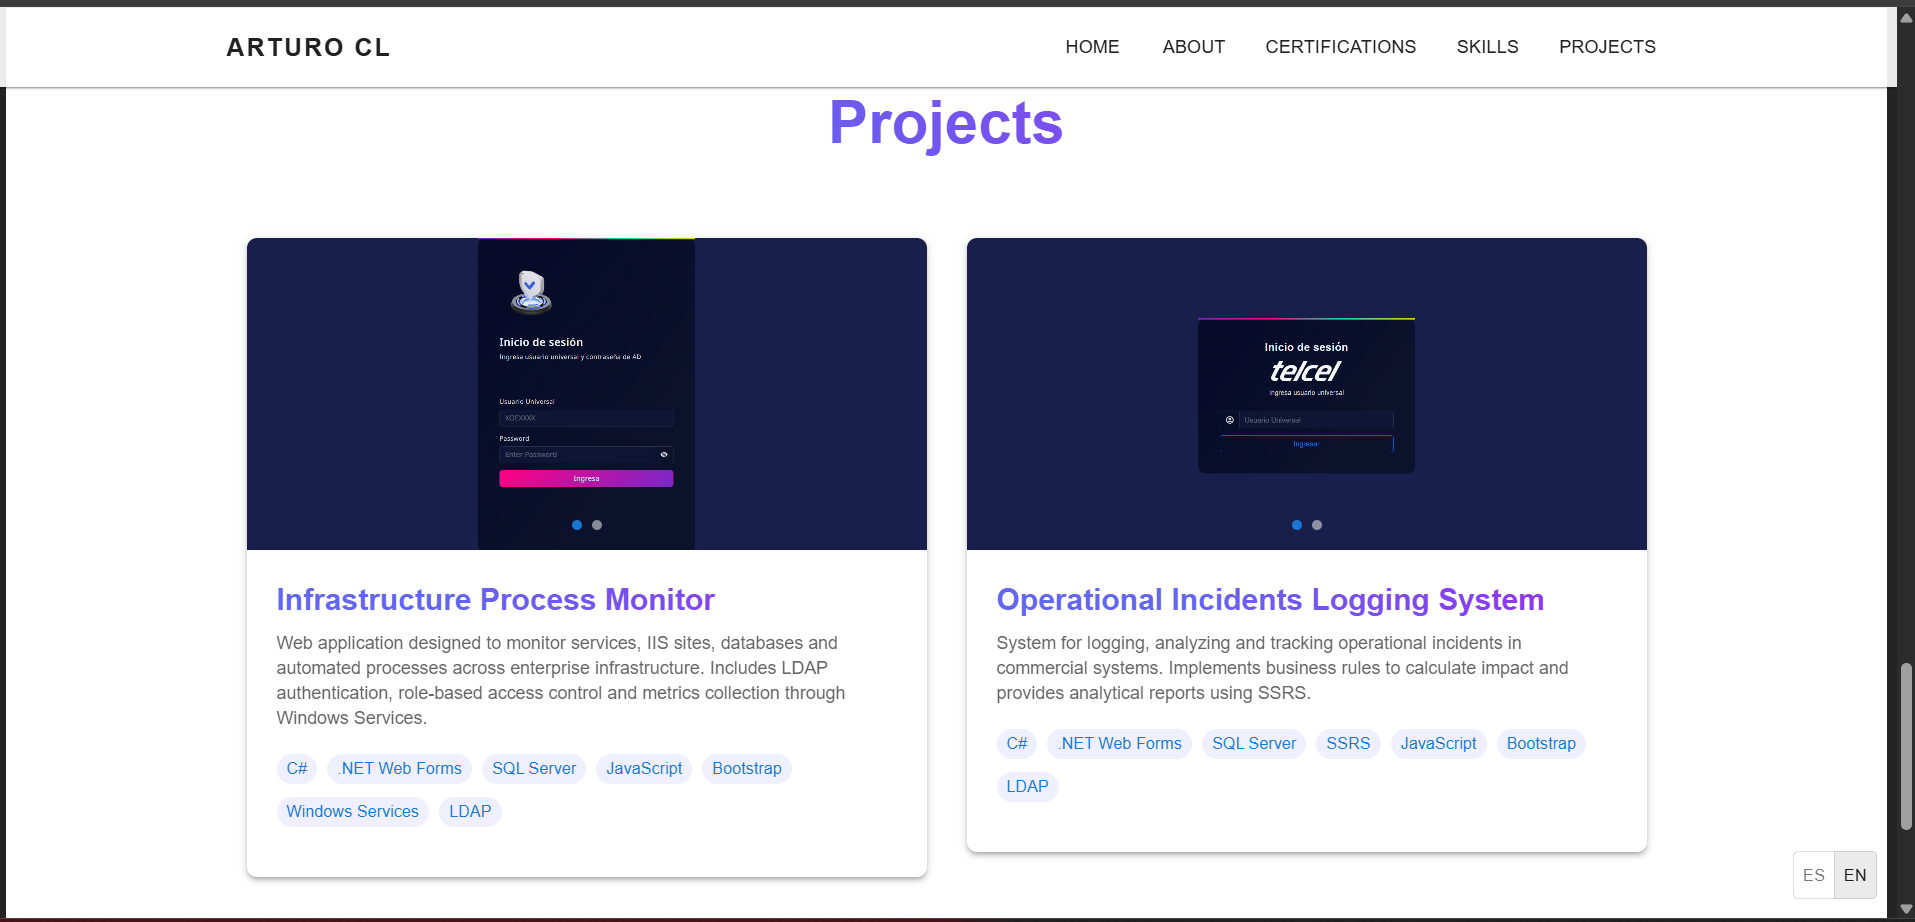
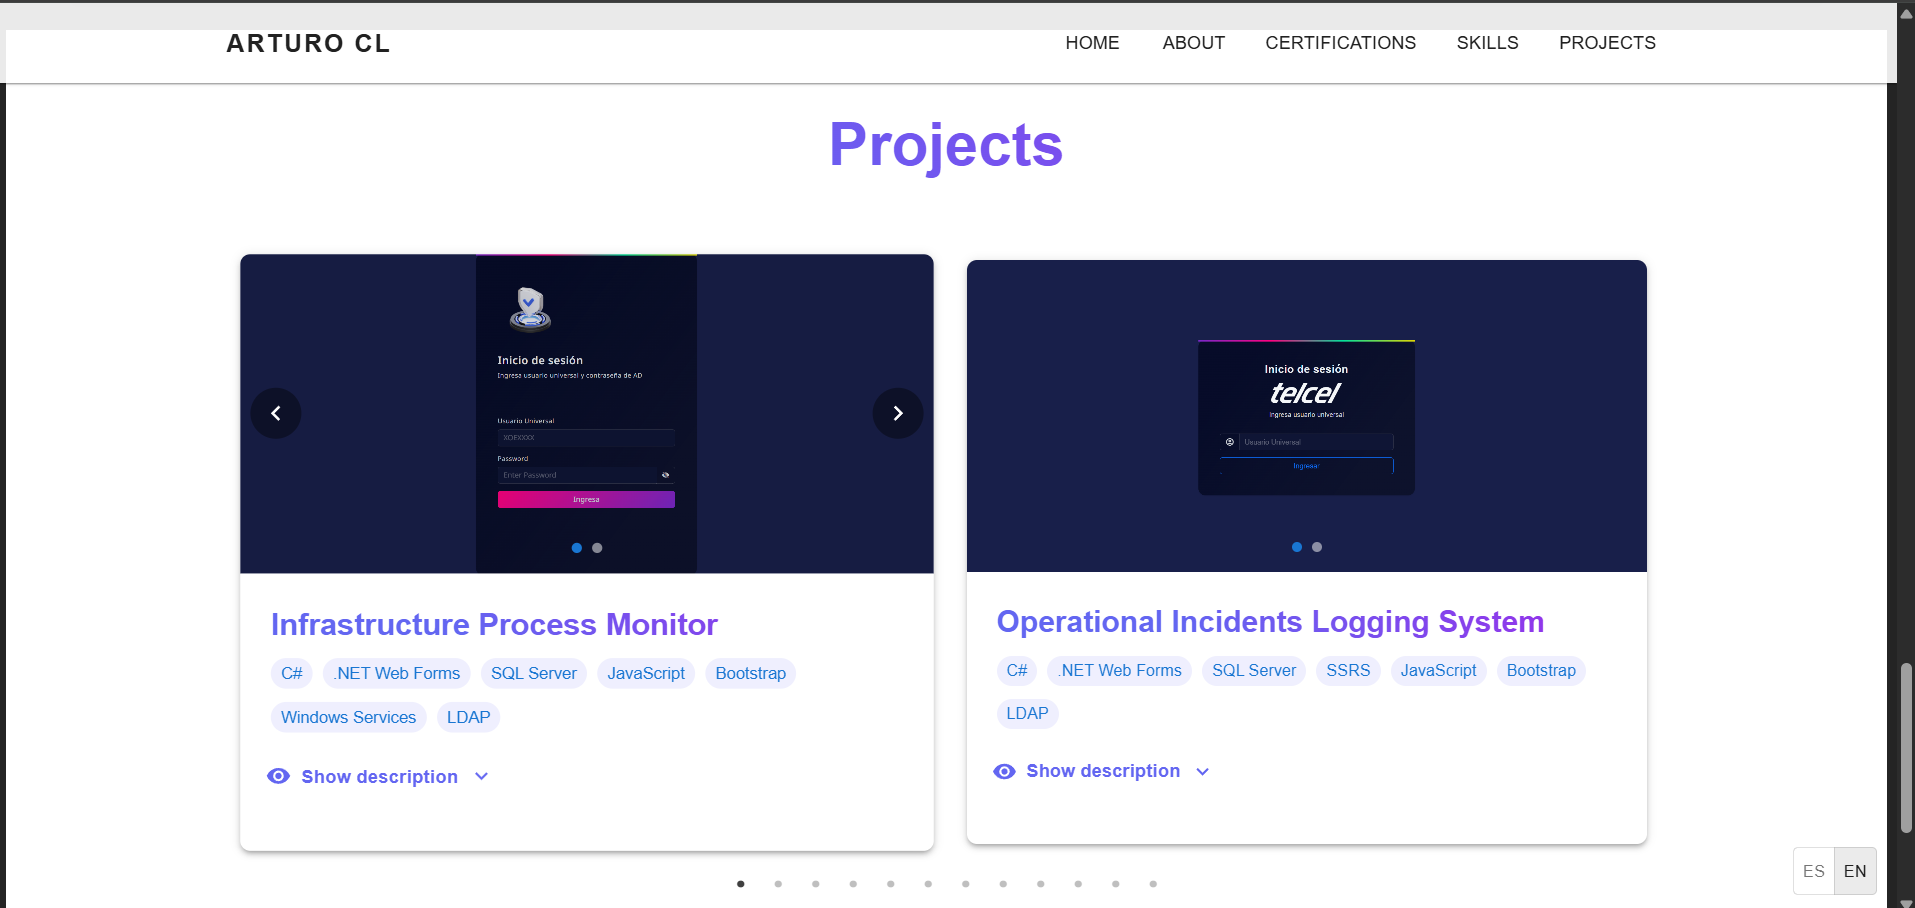
ProjectCard Features

diff --git a/src/components/ProjectCard.jsx b/src/components/ProjectCard.jsx
@@ -7,14 +7,19 @@ import {
   Button, 
   Box, 
   IconButton,
-  Chip
+  Chip,
+  Collapse,
 } from '@mui/material';
 import { 
   GitHub, 
   Language,
   NavigateNext,
-  NavigateBefore
+  NavigateBefore,
+  ExpandMore,
+  Visibility,      
+  VisibilityOff,  
 } from '@mui/icons-material';
+import { useTranslation } from 'react-i18next';
 
 export default function ProjectCard(props) {
   const {
@@ -24,14 +29,15 @@ export default function ProjectCard(props) {
     title, 
     description, 
     images, 
-    image, // Soporte para la propiedad antigua
-    technologies = [], // Valor por defecto vacío
+    image,
+    technologies = [],
     category,
   } = props;
 
-  // Convertir la imagen antigua al nuevo formato si es necesario
   const imageList = images || (image ? [image] : ["/placeholder.jpg"]);
   const [currentImageIndex, setCurrentImageIndex] = useState(0);
+  const [expanded, setExpanded] = useState(false);
+  const { t } = useTranslation('common');  // 👈 namespace 'common'
 
   const nextImage = () => {
     setCurrentImageIndex((prev) => (prev + 1) % imageList.length);
@@ -61,7 +67,6 @@ export default function ProjectCard(props) {
         }}
       >
         <Box sx={{ position: 'relative', height: 250 }}>
-          {/* Etiqueta de categoría */}
           {category && (
             <Chip
               label={
@@ -99,15 +104,11 @@ export default function ProjectCard(props) {
             />
           </AnimatePresence>
 
-          {/* Controles del carrusel */}
           {imageList.length > 1 && (
             <Box
               sx={{
                 position: 'absolute',
-                top: 0,
-                left: 0,
-                right: 0,
-                bottom: 0,
+                top: 0, left: 0, right: 0, bottom: 0,
                 display: 'flex',
                 justifyContent: 'space-between',
                 alignItems: 'center',
@@ -144,14 +145,11 @@ export default function ProjectCard(props) {
             </Box>
           )}
 
-          {/* Indicadores */}
           {imageList.length > 1 && (
             <Box
               sx={{
                 position: 'absolute',
-                bottom: 16,
-                left: 0,
-                right: 0,
+                bottom: 16, left: 0, right: 0,
                 display: 'flex',
                 justifyContent: 'center',
                 gap: 1,
@@ -161,8 +159,7 @@ export default function ProjectCard(props) {
                 <Box
                   key={index}
                   sx={{
-                    width: 8,
-                    height: 8,
+                    width: 8, height: 8,
                     borderRadius: '50%',
                     bgcolor: index === currentImageIndex ? 'primary.main' : 'rgba(255,255,255,0.5)',
                     cursor: 'pointer',
@@ -188,12 +185,7 @@ export default function ProjectCard(props) {
           >
             {title}
           </Typography>
-          
-          <Typography variant="body2" color="text.secondary" paragraph>
-            {description}
-          </Typography>
 
-          {/* Tecnologías */}
           <Box sx={{ mb: 2, display: 'flex', flexWrap: 'wrap', gap: 1 }}>
             {technologies.map((tech) => (
               <motion.div
@@ -207,16 +199,56 @@ export default function ProjectCard(props) {
                   sx={{
                     bgcolor: 'rgba(99, 102, 241, 0.1)',
                     color: 'primary.main',
-                    '&:hover': {
-                      bgcolor: 'rgba(99, 102, 241, 0.2)',
-                    },
+                    '&:hover': { bgcolor: 'rgba(99, 102, 241, 0.2)' },
                   }}
                 />
               </motion.div>
             ))}
           </Box>
 
-          <Box sx={{ display: 'flex', gap: 1 }}>
+          <Button
+            onClick={() => setExpanded(!expanded)}
+            startIcon={                                  // 👈 cambiado a startIcon
+              expanded 
+                ? <VisibilityOff sx={{ color: '#9333EA' }} />   
+                : <Visibility sx={{ color: '#6366F1' }} />      
+            }
+            endIcon={
+              <ExpandMore
+                sx={{
+                  transform: expanded ? 'rotate(180deg)' : 'rotate(0deg)',
+                  transition: 'transform 300ms ease',
+                  color: expanded ? '#9333EA' : '#6366F1',
+                }}
+              />
+            }
+            sx={{
+              textTransform: 'none',
+              color: expanded ? '#9333EA' : '#6366F1',
+              px: 0,
+              mb: 1,
+              fontWeight: 600,
+              transition: 'color 300ms ease',
+              '&:hover': {
+                backgroundColor: 'transparent',
+                color: '#9333EA',
+              },
+            }}
+          >
+            {expanded ? t('projects.hideDescription') : t('projects.showDescription')}  {/* 👈 i18n */}
+          </Button>
+
+          <Collapse in={expanded} timeout="auto" unmountOnExit>
+            <Typography
+              variant="body2"
+              color="text.secondary"
+              sx={{ mb: 2, lineHeight: 1.8 }}
+            >
+              {description}
+            </Typography>
+          </Collapse>
+
+          <Box sx={{ display: 'flex', gap: 1, mt: 1 }}>
             {demo && (
               <motion.div whileHover={{ scale: 1.1 }}>
                 <Button 

diff --git a/src/utils/i18n.js b/src/utils/i18n.js
@@ -27,6 +27,8 @@ const resources = {
       projects: {
         title: "Proyectos",
         categories: { all: "Todos", personal: "Personal", academico: "Académico", laboral: "Laboral" },
+        showDescription: "Ver descripción",    
+        hideDescription: "Ocultar descripción",  
       },
       contact: {
         title: "Contáctame",
@@ -63,6 +65,8 @@ const resources = {
       projects: {
         title: "Projects",
         categories: { all: "All", personal: "Personal", academico: "Academic", laboral: "Work" },
+        showDescription: "Show description",     
+        hideDescription: "Hide description",
       },
       contact: {
         title: "Contact me",
